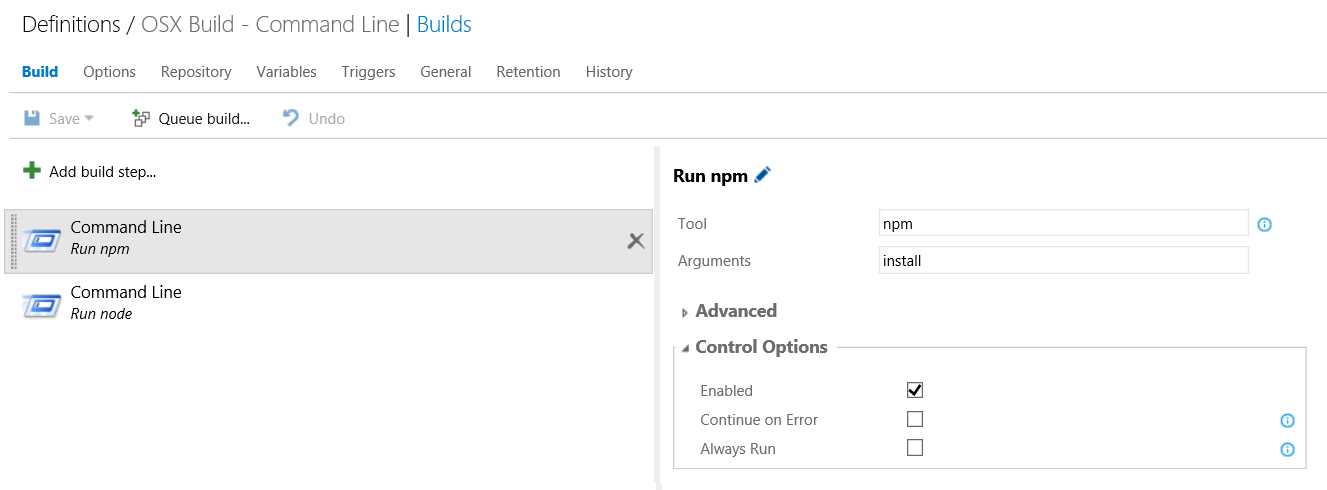
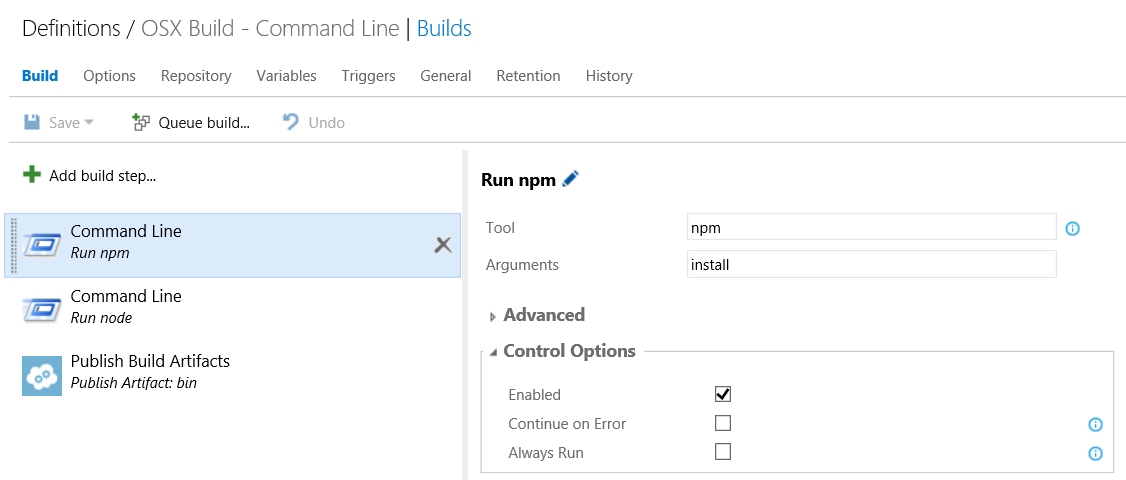
Added correction for publishing steps for VSO vs TFS 2015RC

diff --git a/tutorial-team-build/TFS2015.md b/tutorial-team-build/TFS2015.md
@@ -107,16 +107,27 @@ Detailed instructions on creating build definitions in TFS 2015 can be found in 
 
 	![Windows Build Definition - Demand](<media/tfs2015-3.png>)
 
-6.  As an optional step, you can configure your build to upload the resulting build artifacts to your TFS or VSO instance for easy access. The sample gulpfile.js script places the resulting output in the "bin" folder to make configuration simple. Under the "Options" tab:
+6.  As an optional step, you can configure your build to upload the resulting build artifacts to your TFS or VSO instance for easy access. The sample gulpfile.js script places the resulting output in the "bin" folder to make configuration simple. **TFS 2015 RC on-premise installs vary here slightly.** 
 
-    1.  **Copy to Staging Folder:** Checked
-    2.  **Copy to Staging Folder =\> Search Pattern:** \*/bin
-    3.  **Create Build Drop:** Checked
-    4.  **Create Build Drop =\> Drop location:** Server
+    For **Visual Studio Online and post-RC TFS 2015** releases:
+
+    1. Under the "Build" tab, add a new build step and select **Publish Artifact** from the **Build** category.
+	2. Use the following settings:
+		- **Copy Root**: Location of the Cordova project itself inside your solution (not the solution root).
+		- **Contents:** bin/*
+		- **Artifact Name:** bin
+		- **Artifact Type:** Server
 
 	![Windows Build Definition - Drop location](<media/tfs2015-4.png>)
 
-7. Click the "Queue build..." button to validate your setup. You'll see a real-time console view of your build progressing so you can quickly fine tune your definition.
+ 	For **TFS 2015 RC** on-premise installs, go to the "Options" tab and enter the following information:
+	- **Copy to Staging Folder:** Checked
+    - **Copy to Staging Folder =\> Search Pattern:** \*/bin
+    - **Create Build Drop:** Checked
+    - **Create Build Drop =\> Drop location:** Server
+
+
+Finally, click the "Queue build..." button to validate your setup. You'll see a real-time console view of your build progressing so you can quickly fine tune your definition.
 
 That's it for Windows! You're now able to build using the Android, Windows, and Windows Phone 8 (WP8) Cordova platforms.
 
@@ -157,7 +168,7 @@ Now let's create a version of this same build definition to target iOS that will
 		- **Tool:** npm
 		- **Arguments:** install
 
-	![OSX Build Definition - Update npm install](<media/tfs2015-6.png>)
+   ![OSX Build Definition - Update npm install](<media/tfs2015-6.png>)
 
 3.  Now we need to add a demand that will route builds to OSX machines rather than Windows. Under the "General" tab, remove the "windir" demand and add a demand that "xcode" exists.
 
